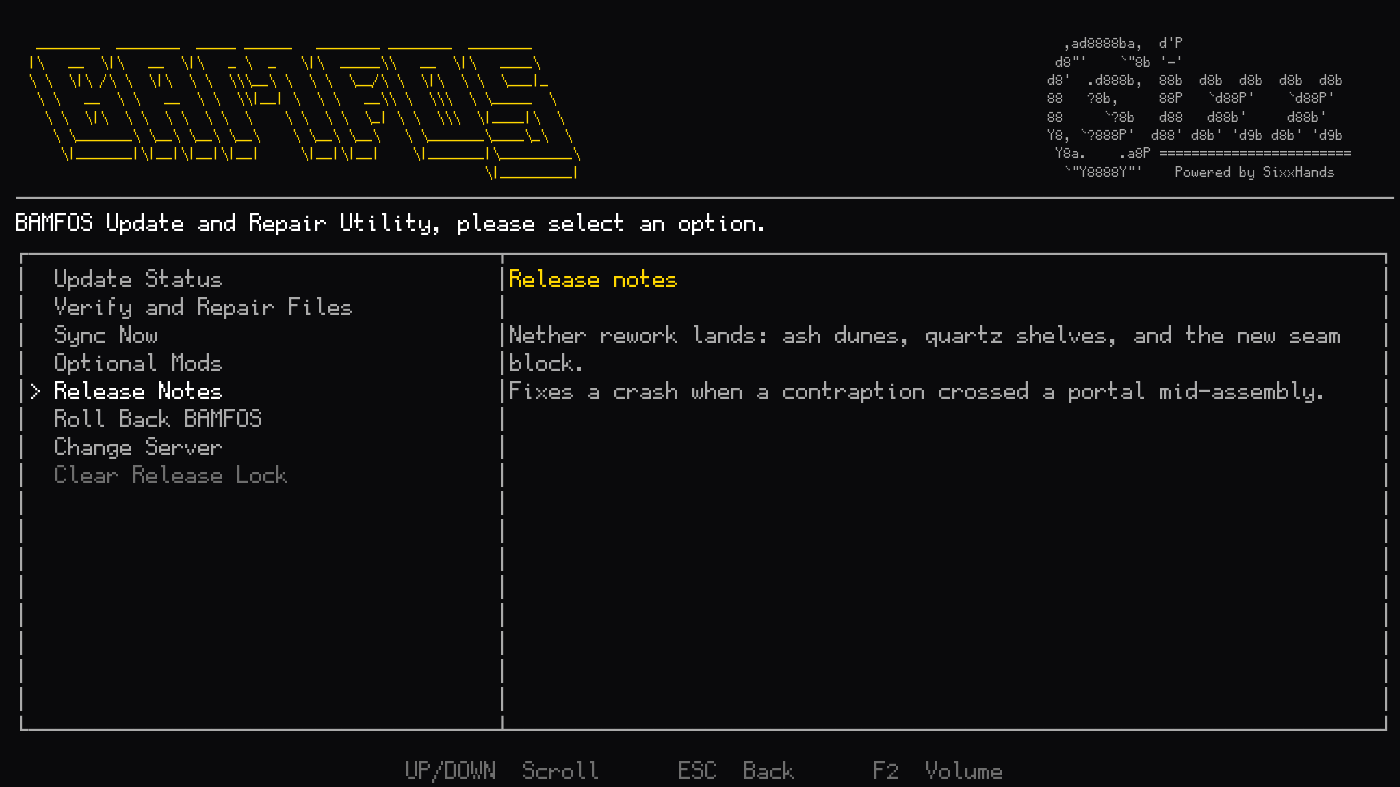
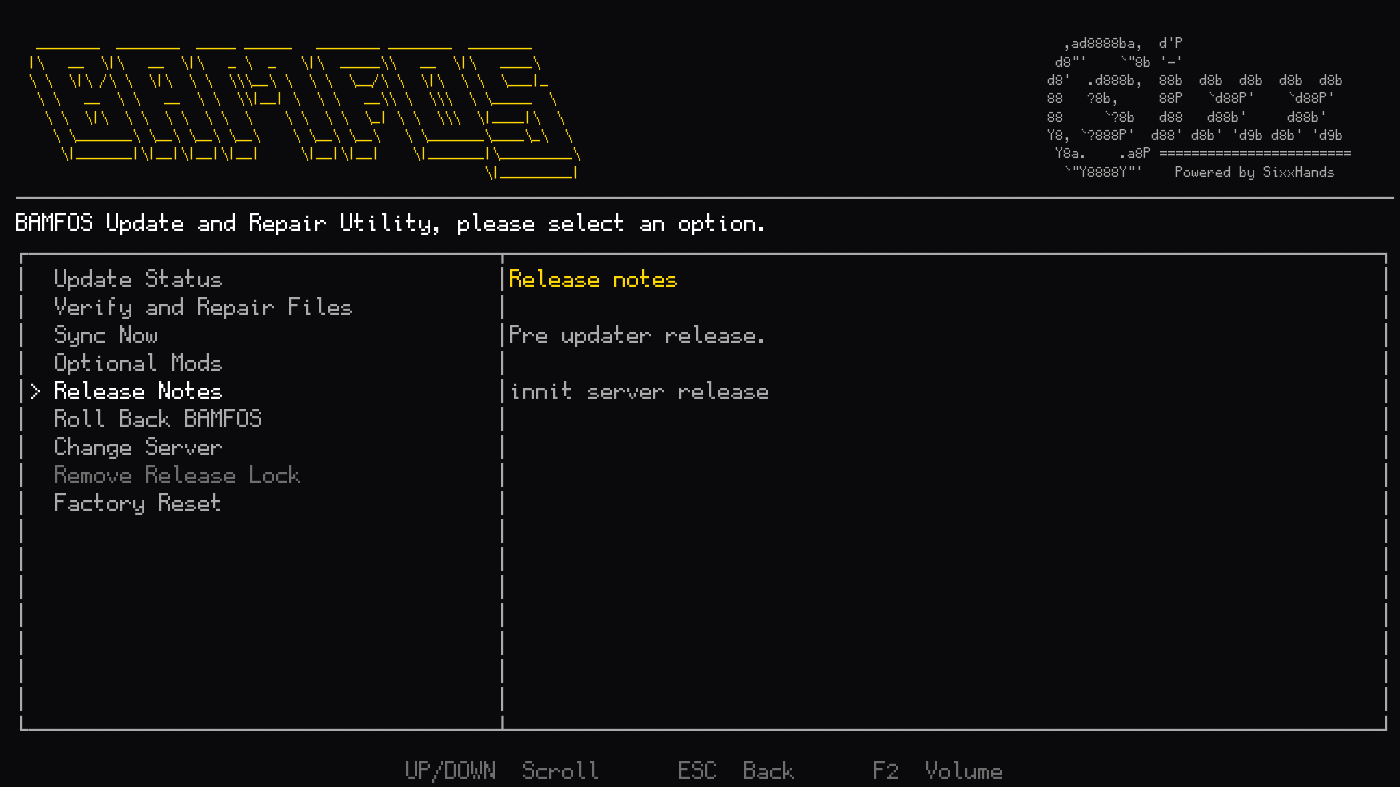
release notes image

diff --git a/earlywindow/src/main/java/com/retro/bamfmenu/early/core/repair/session/RepairSample.java b/earlywindow/src/main/java/com/retro/bamfmenu/early/core/repair/session/RepairSample.java
@@ -51,8 +51,8 @@ public final class RepairSample {
         boolean pinned = "pinned".equals(scenario) || "status".equals(scenario);
         UpdaterState base = new UpdaterState(true, VERSION, pinned ? "v0.2.4" : "", "status".equals(scenario),
                 "ok", NOW - 14 * 60_000L, NOW, "syncing".equals(scenario), 1, 1, false,
-                "Nether rework lands: ash dunes, quartz shelves, and the new seam block.\n"
-                        + "Fixes a crash when a contraption crossed a portal mid-assembly.",
+                // Real v0.2.4 release notes used for the offline renderer preview (keeps fake server addresses below).
+                "Pre updater release.\n\ninnit server release",
                 // Placeholder address since rendered PNGs ship in the README.
                 // Reset target follows the engine rule (pin wins over installed).
                 List.copyOf(mods), null, "super.secret.ip.for.a.server", 25565,
